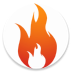
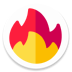
Change appIcon and SlashScreen

diff --git a/src/screens/ProfileScreen/Profile.view.js b/src/screens/ProfileScreen/Profile.view.js
@@ -139,10 +139,10 @@ class Profile extends Component {
     }
     return (
       <ProfileDetails
-        name={'Nguyễn Phúc Hậu'}
-        email={'phuchau11101998@gmail.com'}
-        avatar={IMAGES.AVATAR}
-        phoneNumber={'0933537713'}
+        name={'5SIN'}
+        email={'5SIN@gmail.com'}
+        avatar={IMAGES.ICON_APP}
+        phoneNumber={'123456789'}
         historyOrders={[{}, {}]}
         onLogout={this.logOut}
         navigation={navigation} />

diff --git a/src/components/BillContainer/ItemContainer/Item/Item.component.js b/src/components/BillContainer/ItemContainer/Item/Item.component.js
@@ -17,7 +17,7 @@ class Item extends Component {
 		return (
 			<View style={styles.content}>
 				<Image style={styles.image} source={uri ? {uri: uri} : IMAGES.PRODUCT}/>
-				<Text style={styles.name}>{product_name}</Text>
+				<Text style={styles.name} ellipsizeMode={"tail"}>{product_name}</Text>
         <Icon
           name='times'
           size={20}

diff --git a/src/components/BillContainer/ItemContainer/Item/Item.styles.js b/src/components/BillContainer/ItemContainer/Item/Item.styles.js
@@ -25,7 +25,7 @@ const styles = StyleSheet.create({
 	name: {
 		fontSize: 16,
 		color: COLORS.black,
-		maxWidth: 220
+		maxWidth: 200
 	},
 	priceContainer: {
 		flexDirection: 'row',
